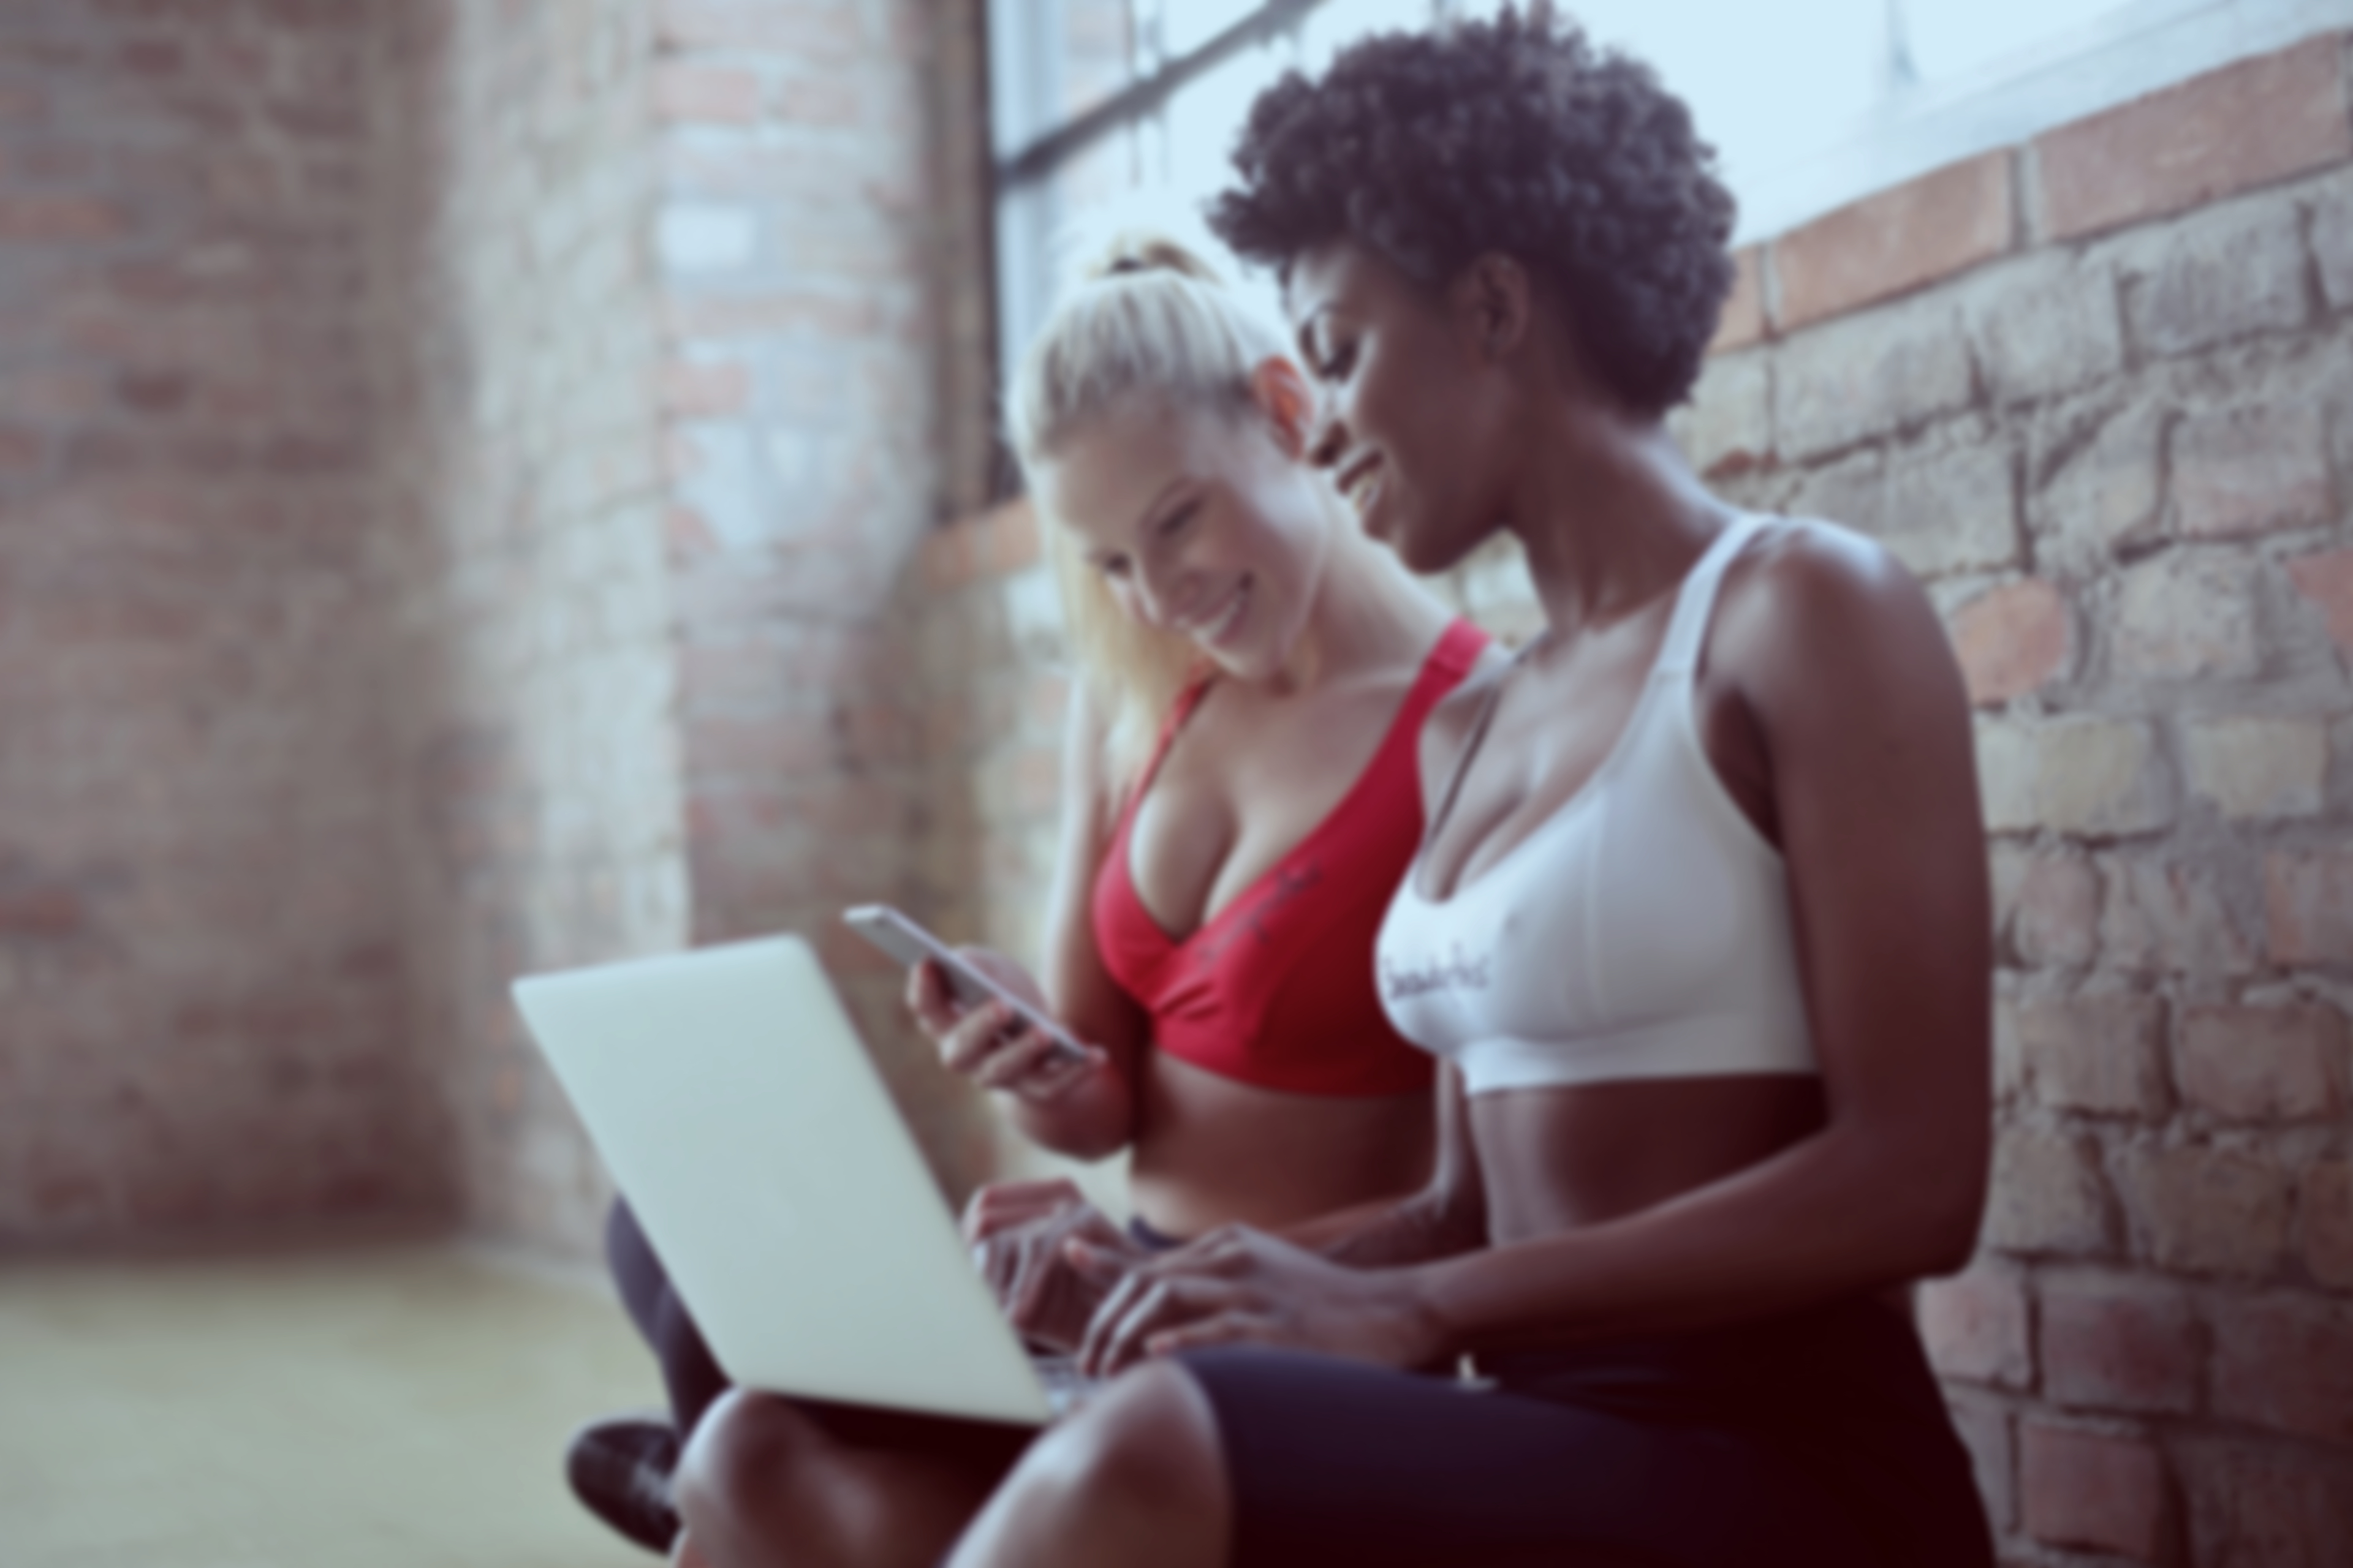
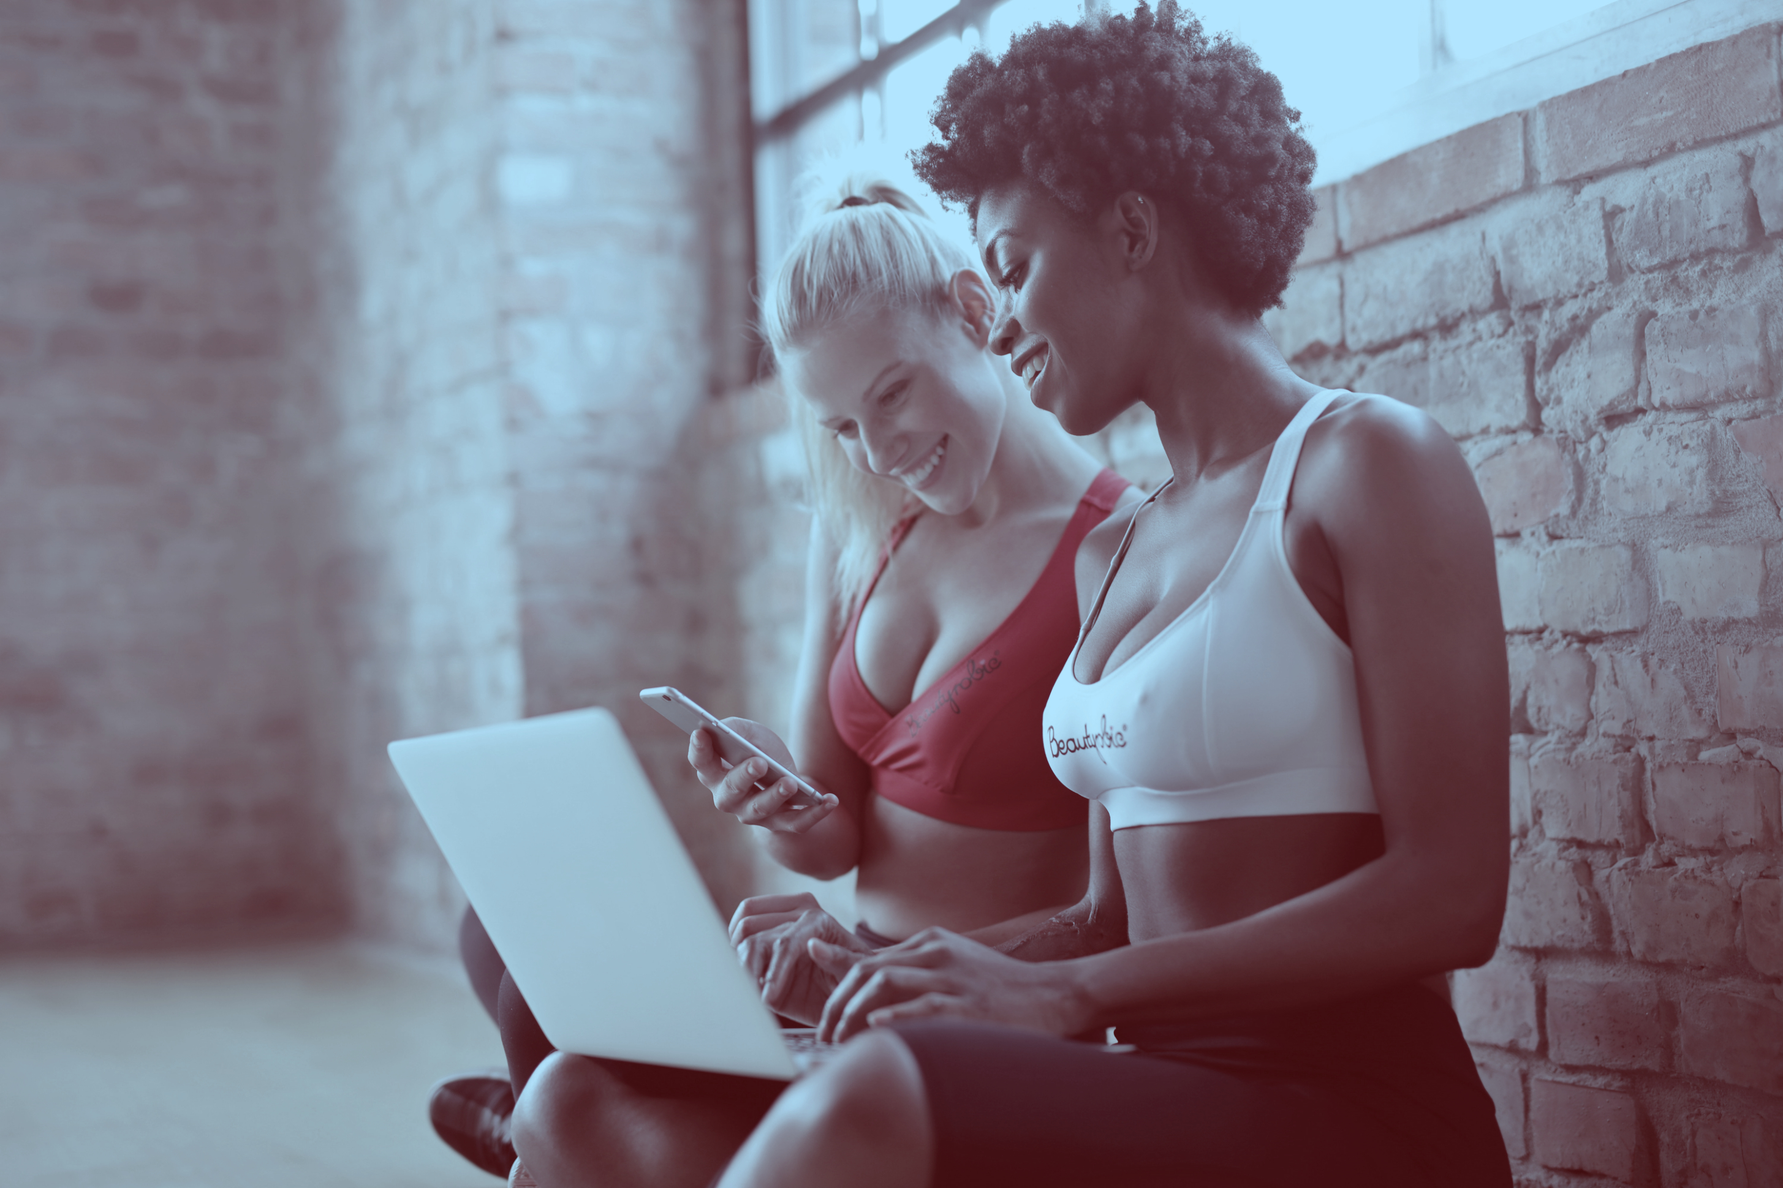
Started work on gymprofile, not functionaing follow button added

diff --git a/static/css/styles.css b/static/css/styles.css
@@ -60,6 +60,7 @@ display: none;
     width: 50%;
 	font-size: 2.5em;
 	transition: transform .2s;
+	text-decoration: underline;
 }
 
 .title a:hover{
@@ -106,7 +107,7 @@ display: none;
 
 .bg-text {
 	background-color: rgb(0,0,0); /* Fallback color */
-	background-color: rgba(0,0,0, 0.4); /* Black w/opacity/see-through */
+	background-color: rgba(0,0,0, 0.7); /* Black w/opacity/see-through */
 	color: white;
 	font-weight: bold;
 	font-family: 'IBM Plex Sans', sans-serif;
@@ -174,7 +175,7 @@ display: none;
 	text-decoration: none;
 }
 
-.gym-profile {
+.gym-info {
     background-color: rgb(0,0,0); /* Fallback color */
 	background-color: rgba(0,0,0, 0.4); /* Black w/opacity/see-through */
 	color: white;
@@ -183,18 +184,43 @@ display: none;
 	font-size: 1em;
 	border: 3px solid #f1f1f1;
 	position: absolute;
-	top: 50%;
-	left: 50%;
-	transform: translate(-50%, -50%);
+	top: 10%;
+	left: 5%;
 	width: 85%;
 	height: 60%;
 	padding: 20px;
 
 }
 
-.gymProfilePerson {
-    border:1px solid white;
+.gym-people{
+	background-color: rgb(0,0,0); /* Fallback color */
+	background-color: rgba(0,0,0, 0.4); /* Black w/opacity/see-through */
+	color: white;
+	font-weight: bold;
+	font-family: 'IBM Plex Sans', sans-serif;
+	font-size: 1em;
+	border: 3px solid #f1f1f1;
+	position: absolute;
+	top: 40%;
+	left: 5%;
+	width: 30%;
+	height: 50%;
+	padding: 20px;
 }
+
+.profilePic {
+    position: relative;
+    float: left;
+    width:  100px;
+    height: 100px;
+    background-position: 50% 50%;
+    background-repeat:   no-repeat;
+    background-size:     cover;
+	border-radius: 1.5em;
+}
+
+
+	
 .resize {
 	width:6%;
 	height:auto;

diff --git a/templates/gymbuddy/gymprofile.html b/templates/gymbuddy/gymprofile.html
@@ -1,21 +1,25 @@
 {% extends 'gymbuddy/base.html' %}
 {% block body_block %}
     {% if Gym %}
-        <div class="gym-profile">
+        <div class="gym-info">
             <p>Name: {{ Gym.GymName }}</p>
             <p>Rating: {{ Gym.Rating }}</p>
-            <p>OpeningHours: {{ Gym.OpeningHours }}</p>
+            <p>Opening Hours: {{ Gym.OpeningHours }}</p>
             <p>Address: {{ Gym.Address }}</p>
-            <form action="{{ Gym.WebsiteURL}}">
+			<form action="{{ Gym.WebsiteURL}}">
                 <input type="submit" value="View Gym's webpage" />
             </form>
+			<input type="submit" name="submit" value="Follow" />
+		<div class="gym-people">
                 {% if People %}
                     {% for Person in People %}
-                        <div class="gymProfilePerson">
-                        <p>{{ Person }}</p>
-                        <p>{{ Person.Experience }}</p>
-                        <a href="{% url 'user_profile' Person %}"><img src= "/media/{{ Person.ProfilePicture }}"></a>
-                        </div>
+                        <div class="wrapper">
+							<div class="person">
+								<p>{{ Person }}</p>
+								<p>{{ Person.Experience }}</p>
+								<a href="{% url 'user_profile' Person %}"><img class="profilePic" src= "/media/{{ Person.ProfilePicture }}"></a>
+							</div>
+						</div>
                     {% endfor %}
                 {% endif %}
         </div>

diff --git a/templates/gymbuddy/login.html b/templates/gymbuddy/login.html
@@ -7,7 +7,7 @@
 
 {% block body_block %}
 	<link rel="stylesheet" href="{% static 'css/styles.css' %}">
-	<img class="bg-image" src= "{% static "images/flex.jpg" %} "></a>
+	<img class="bg-image" src= "{% static "images/login.jpg" %} "></a>
 	<div class="signup-form">
 		<h1>Login to GymBuddy</h1>
 		<form id="login_form" method="post" action="/login/">
